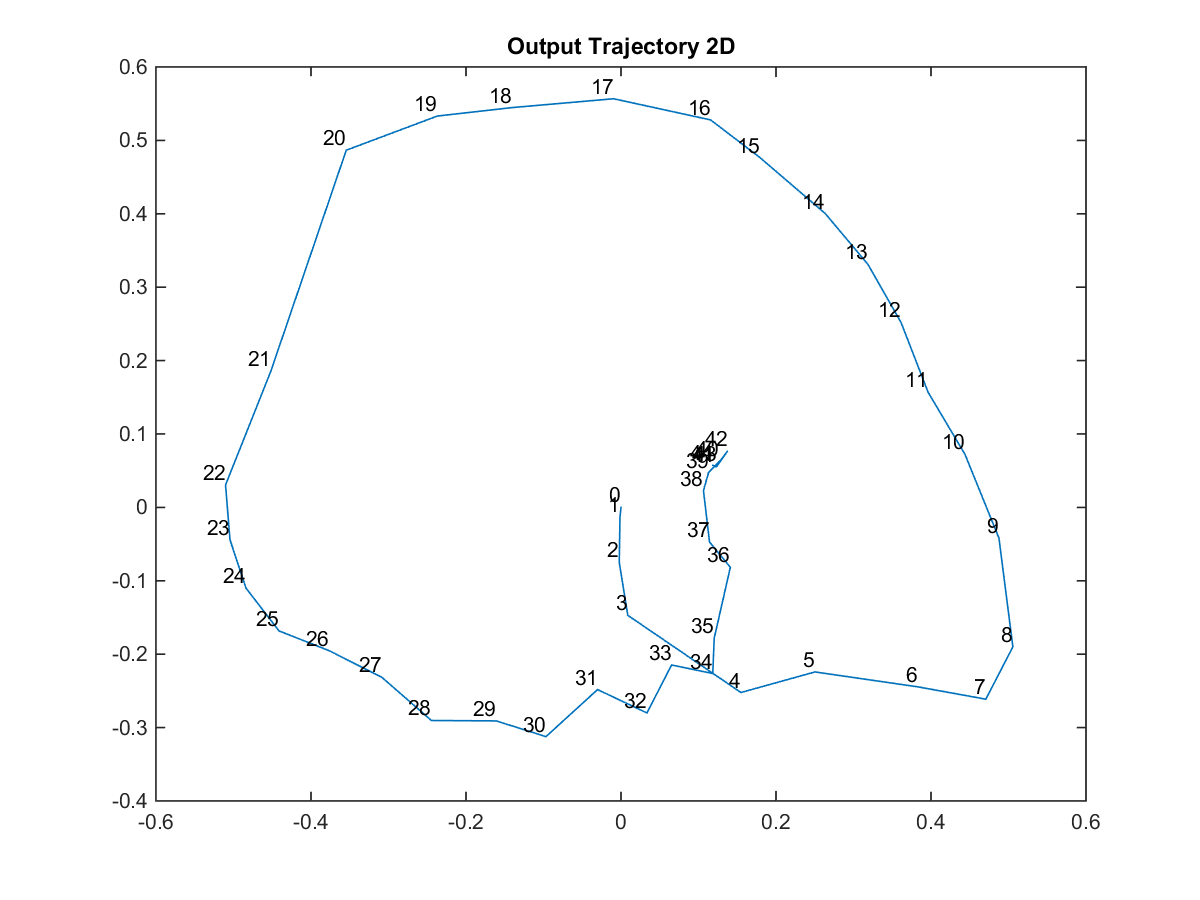
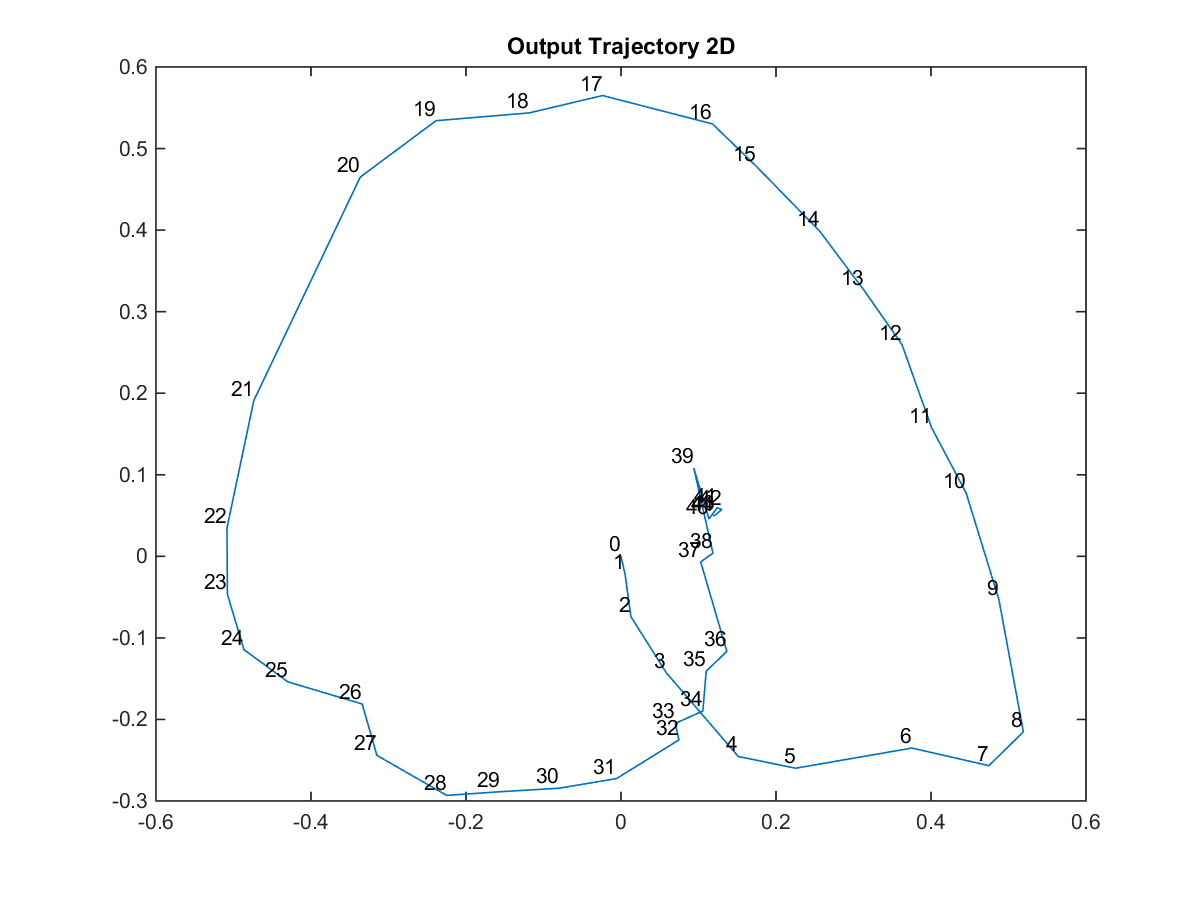
Ex 7 final..

diff --git a/Exercise/Exercise 7/RotationMatrix.m b/Exercise/Exercise 7/RotationMatrix.m
@@ -1,0 +1,188 @@
+classdef RotationMatrix
+    properties
+        matrix
+    end
+    methods (Access = public)
+        function obj = RotationMatrix(dataArray, dataType)
+            switch dataType
+                case 'eulerAngles'
+                    obj.matrix = RotationMatrix.ComputeRotationMatrixFromEulerAngles(dataArray(1), dataArray(2), dataArray(3));
+                case 'exponentialMap'
+                    obj.matrix = RotationMatrix.ComputeRotationMatrixFromExponentialMap(dataArray(1:3));
+                    obj.matrix = obj.matrix(1:3, 1:3);
+                case 'rotationMatrix'
+                    RotationMatrix.AssertIsARotationMatrix(dataArray);
+                    obj.matrix = dataArray;
+                case 'quaternion'
+                    obj.matrix = RotationMatrix.ComputeRotationMatrixFromQuaternion(dataArray);
+                otherwise
+                    error('dataType must be either eulerAngles, exponentialMap or rotationMatrix')
+            end
+        end
+        
+        function rotationArray = GetExponentialMap(obj)
+            [theta, axis] = RotationMatrix.GetEulerAxis(obj.matrix);
+            rotationArray = theta*axis;
+            if any(isnan((rotationArray))) == 1
+                rotationArray = [0; 0; 0];
+            end
+        end
+        
+        function eulerAngles = GetEulerAngles(obj)
+            % eulerAngles = [2 x 3] array; each row contains a triplet of
+            % possible euler angles.
+            % for further details: http://www.soi.city.ac.uk/~sbbh653/publications/euler.pdf
+            
+            eulerAngles = zeros(2, 3); % if no gimbal lock is detected, we return 2 possible solutions
+            
+            if (abs(abs(obj.matrix(3,1)) - 1) < 1e-12)
+                warning('GIMBAL LOCK! Infinite solutions are possible. returning one possible solution')
+                if (abs(obj.matrix(3,1) - 1) < 1e-12) % R31 == 1
+                    eulerAngles(:,1) = atan2(-obj.matrix(1,2), -obj.matrix(1,3));
+                    eulerAngles(:, 2) = -pi/2;
+                else
+                    eulerAngles(:,1) = atan2(obj.matrix(1,2), obj.matrix(1,3));
+                    eulerAngles(:, 2) = pi/2;
+                end
+                return;
+            end
+            
+            theta = -asin(obj.matrix(3,1));
+            theta2 = pi - theta;
+            % psi1, psi2
+            eulerAngles(1,1) = atan2(obj.matrix(3,2)/cos(theta), obj.matrix(3,3)/cos(theta));
+            eulerAngles(2,1) = atan2(obj.matrix(3,2)/cos(theta2), obj.matrix(3,3)/cos(theta2));
+            
+            % theta1, theta2
+            eulerAngles(1,2) = theta;
+            eulerAngles(2,2) = theta2;
+            
+            %phi1, phi2
+            eulerAngles(1,3) = atan2(obj.matrix(2,1)/cos(theta), obj.matrix(1,1)/cos(theta));
+            eulerAngles(2,3) = atan2(obj.matrix(2,1)/cos(theta2), obj.matrix(1,1)/cos(theta2));
+        end
+        
+        function rotationMatrix = GetRotationMatrix(obj)
+            rotationMatrix = obj.matrix;
+        end
+        
+        function quaternion = GetQuaternion(obj)
+            % for further details:  http://www.euclideanspace.com/maths/geometry/rotations/conversions/matrixToQuaternion/
+            quaternion = zeros(4, 1);
+            tr = trace(obj.matrix);
+            if (tr > 1e-2)
+                temp1 = sqrt(1 + tr)*2;
+                quaternion(4) = temp1/4;
+                quaternion(1) = (obj.matrix(3, 2) - obj.matrix(2, 3))/temp1;
+                quaternion(2) = (obj.matrix(1, 3) - obj.matrix(3, 1))/temp1;
+                quaternion(3) = (obj.matrix(2, 1) - obj.matrix(1, 2))/temp1;
+            else
+                if ((obj.matrix(1, 1) > obj.matrix(2, 2)) && (obj.matrix(1, 1) > obj.matrix(3, 3)))
+                    temp1 = sqrt(1 + obj.matrix(1, 1) - obj.matrix(2, 2) - obj.matrix(3, 3)) * 2;
+                    quaternion(1) = temp1/4;
+                    quaternion(2) = (obj.matrix(1, 2) + obj.matrix(2, 1)) / temp1;
+                    quaternion(3) = (obj.matrix(1, 3) + obj.matrix(3, 1)) / temp1;
+                    quaternion(4) = (obj.matrix(3, 2) - obj.matrix(2, 3)) / temp1;
+                elseif (obj.matrix(2, 2) > obj.matrix(3, 3))
+                    temp1 = sqrt(1 + obj.matrix(2, 2) - obj.matrix(1, 1) - obj.matrix(3, 3)) * 2;
+                    quaternion(1) = (obj.matrix(1, 2) + obj.matrix(2, 1)) / temp1;
+                    quaternion(2) = temp1/4;
+                    quaternion(3) = (obj.matrix(3, 2) + obj.matrix(2, 3)) / temp1;
+                    quaternion(4) = (obj.matrix(1, 3) - obj.matrix(3, 1)) / temp1;
+                else
+                    temp1 = sqrt(1 + obj.matrix(3, 3) - obj.matrix(1, 1) - obj.matrix(2, 2)) * 2;
+                    quaternion(1) = (obj.matrix(1, 3) + obj.matrix(3, 1)) / temp1;
+                    quaternion(2) = (obj.matrix(3, 2) + obj.matrix(2, 3)) / temp1;
+                    quaternion(3) = 0.25 * temp1;
+                    quaternion(4) = (obj.matrix(2, 1) - obj.matrix(1, 2)) / temp1;
+                end
+            end
+        end
+    end
+    
+    methods(Static, Access = public)
+        function rotationMatrix = ComputeRotationMatrixFromQuaternion(dataArray)
+            dataArray = dataArray./norm(dataArray);
+            q1 = dataArray(1);
+            q2 = dataArray(2);
+            q3 = dataArray(3);
+            q4 = dataArray(4);
+            
+            rotationMatrix = [1-2*q2*q2-2*q3*q3,  2*(q1*q2-q3*q4),    2*(q1*q3+q2*q4)
+                2*(q1*q2+q3*q4),    1-2*q1*q1-2*q3*q3,  2*(q2*q3-q1*q4)
+                2*(q1*q3-q2*q4),    2*(q1*q4+q2*q3),    1-2*q1*q1-2*q2*q2];
+        end
+        
+        function rotationMatrix = ComputeRotationMatrixFromEulerAngles(alpha, beta, gamma)
+            % inputs are the intrinsic rotation angles in RADIANTS
+            Rx = [1 0 0; 0 cos(alpha) -sin(alpha); 0 sin(alpha) cos(alpha)];
+            Ry = [cos(beta) 0 sin(beta); 0 1 0; -sin(beta) 0 cos(beta)];
+            Rz = [cos(gamma) -sin(gamma) 0; sin(gamma) cos(gamma) 0; 0    0   1];
+            rotationMatrix = Rz*Ry*Rx;
+        end
+        
+        function rotationMatrix = ComputeRotationMatrixFromExponentialMap(exponentialMap)
+            
+            if all(exponentialMap == 0) == 1
+                rotationMatrix = eye(3);
+                return
+            end
+            
+            exponentialMap = RotationMatrix.CheckExponentialMapParametrization(exponentialMap);
+            theta = norm(exponentialMap);
+            
+            exponentialMap = exponentialMap/theta;
+            
+            x = exponentialMap(1);
+            y = exponentialMap(2);
+            z = exponentialMap(3);
+            
+            s = sin(theta/2);
+            c = cos(theta/2);
+            rotationMatrix = [2*(x^2-1)*s^2+1  2*x*y*s^2-2*z*c*s  2*x*z*s^2+2*y*c*s
+                2*x*y*s^2+2*z*c*s  2*(y^2-1)*s^2+1  2*y*z*s^2-2*x*c*s
+                2*x*z*s^2-2*y*c*s 2*y*z*s^2+2*x*c*s  2*(z^2-1)*s^2+1];
+        end
+        
+        function expMap = CheckExponentialMapParametrization(expMap)
+            theta = norm(expMap);
+            if theta > 2*pi
+                theta2 = theta;
+                theta = mod(theta,2*pi);
+                expMap = expMap*theta/theta2;
+            end
+            if theta > pi
+                expMap = expMap*(1 - 2*pi/theta);
+            end
+        end
+    end
+    
+    methods(Static, Access = private)
+        function [theta, axis] = GetEulerAxis(matrix)
+            RotationMatrix.AssertIsARotationMatrix(matrix);
+            
+            [V, d] = eig(matrix);
+            [~, index] = min(abs(diag(d) -1));
+            axis = V(:,index);
+            
+            cosTheta = (trace(matrix) - 1)/2;
+            [~, index] = max(abs(axis));
+            switch(index)
+                case 1
+                    sinTheta = (matrix(3,2) - matrix(2,3))/(2*axis(index));
+                case 2
+                    sinTheta = (matrix(1,3) - matrix(3,1))/(2*axis(index));
+                case 3
+                    sinTheta = (matrix(2,1) - matrix(1,2))/(2*axis(index));
+            end
+            theta = atan2(sinTheta, cosTheta);
+        end
+        
+        function AssertIsARotationMatrix(dataArray)
+            tempInv = inv(dataArray);
+            tempTransl = dataArray';
+            assert(max(abs(tempInv(:) - tempTransl(:) )) < 1e-6)
+            assert(abs(det(dataArray)-1) < 1e-6)
+        end
+    end
+end

diff --git a/Exercise/Exercise 7/E.m b/Exercise/Exercise 7/E.m
@@ -1,17 +1,28 @@
-function energy = E( params , A, M, m )
+function energy = E( params , A, M, m , method )
 %E Energy Function
+if(strcmp(method , 'euler') == 1)
+    alpha = params(1);
+    beta = params(2);
+    gamma = params(3);
 
+    RX = [ 1, 0, 0; 0, cos(alpha), sin(alpha); 0, -sin(alpha), cos(alpha)];
+    RY = [cos(beta), 0, -sin(beta); 0,1,0; sin(beta),0,cos(beta)];
+    RZ = [ cos(gamma), sin(gamma) , 0; -sin(gamma), cos(gamma) , 0 ; 0 , 0 , 1];
 
-alpha = params(1);
-beta = params(2);
-gamma = params(3);
+    R = RZ * RY * RX;
+    t = params(4:6);
+end
 
-RX = [ 1, 0, 0; 0, cos(alpha), sin(alpha); 0, -sin(alpha), cos(alpha)];
-RY = [cos(beta), 0, -sin(beta); 0,1,0; sin(beta),0,cos(beta)];
-RZ = [ cos(gamma), sin(gamma) , 0; -sin(gamma), cos(gamma) , 0 ; 0 , 0 , 1];
+if(strcmp(method , 'quaternions') == 1)
+        x = params(1);
+        y = params(2);
+        z = params(3);
+        w = params(4);
 
-R = RZ * RY * RX;
-t = params(4:6);
+        R = RotationMatrix( [w;x;y;z], 'quaternion'); 
+              R = R.matrix;
+        t = params(5:7);     
+end
 
 M = [ M; ones(1, size(M,2))];
 proj_mat = A*[R , t];
